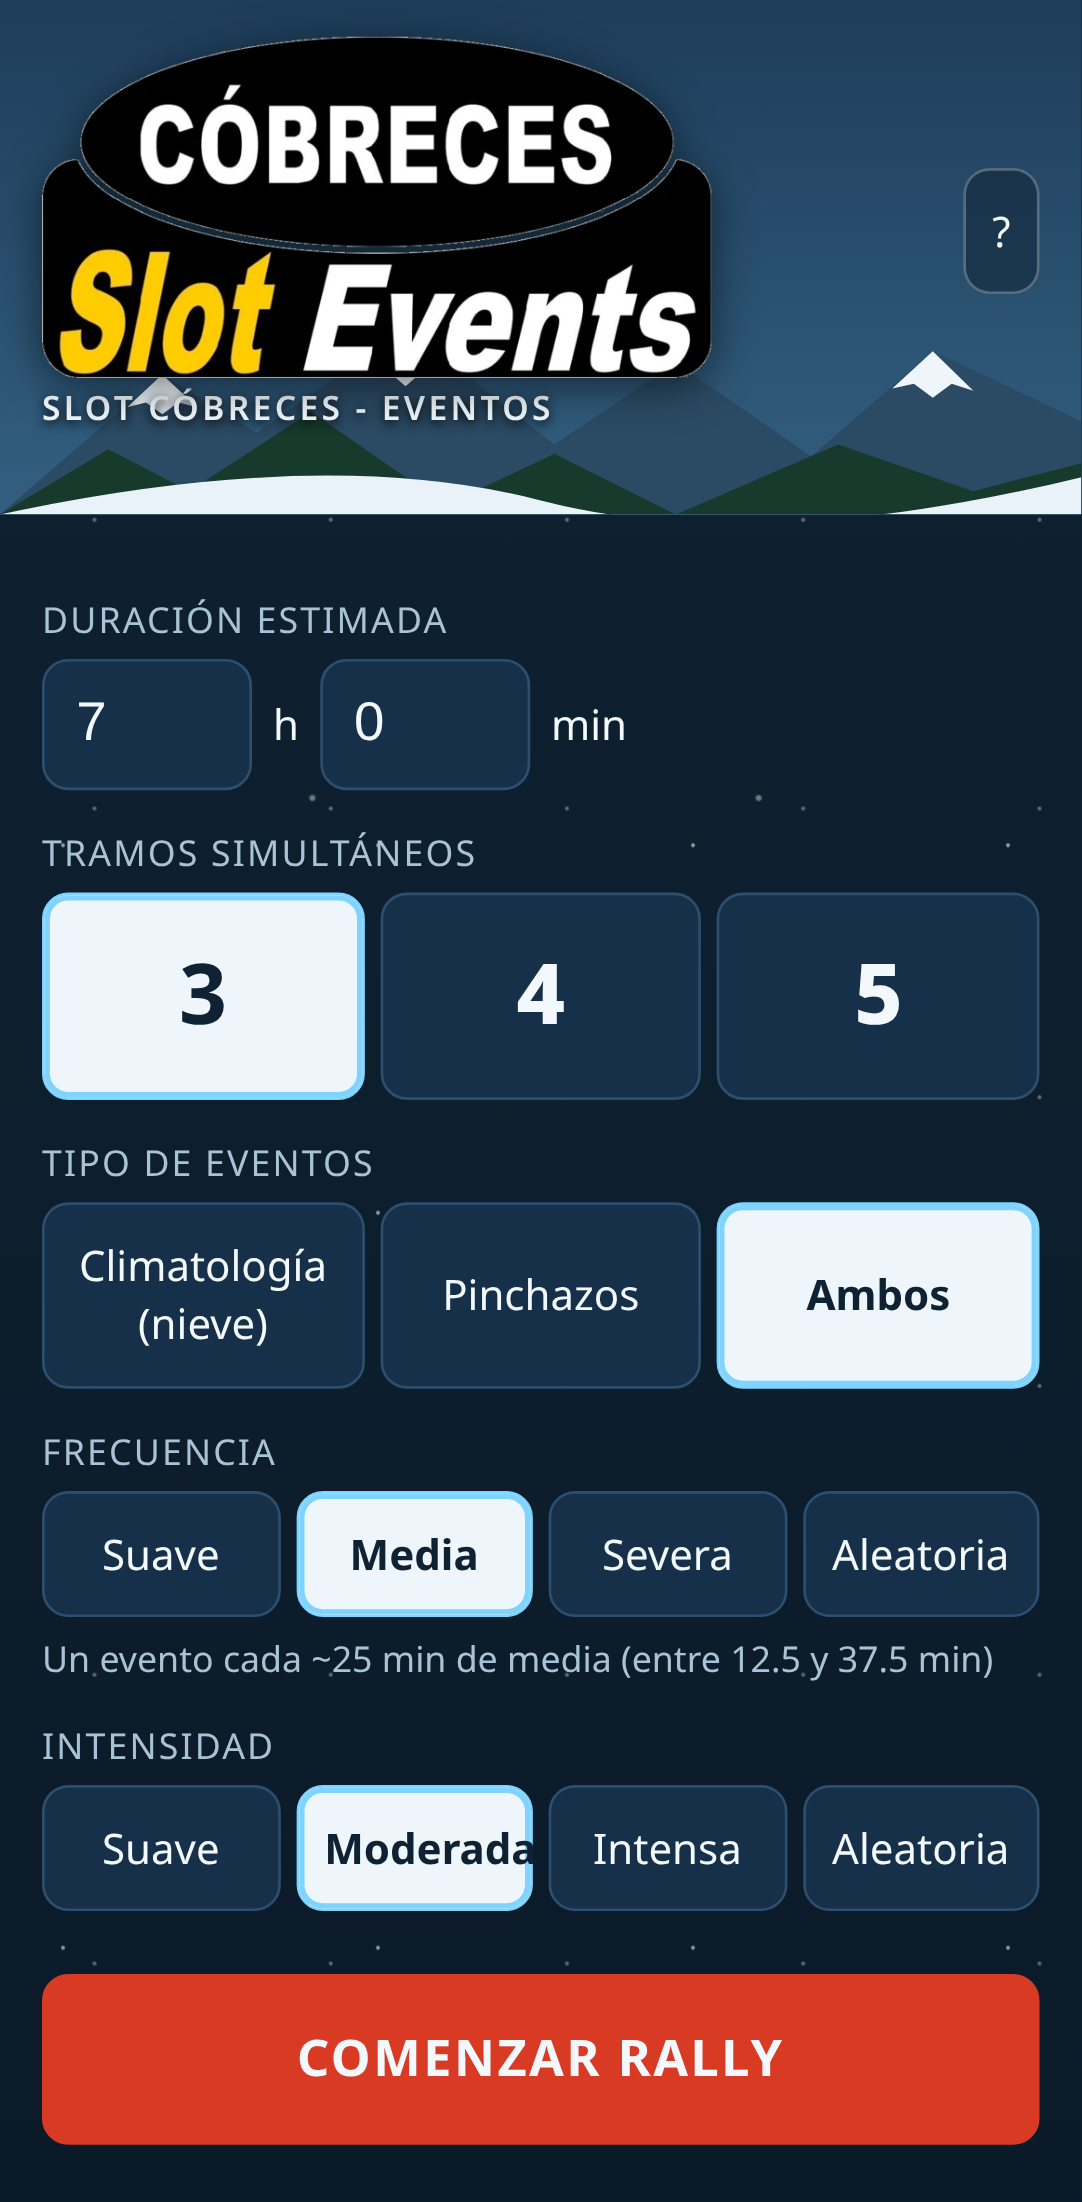
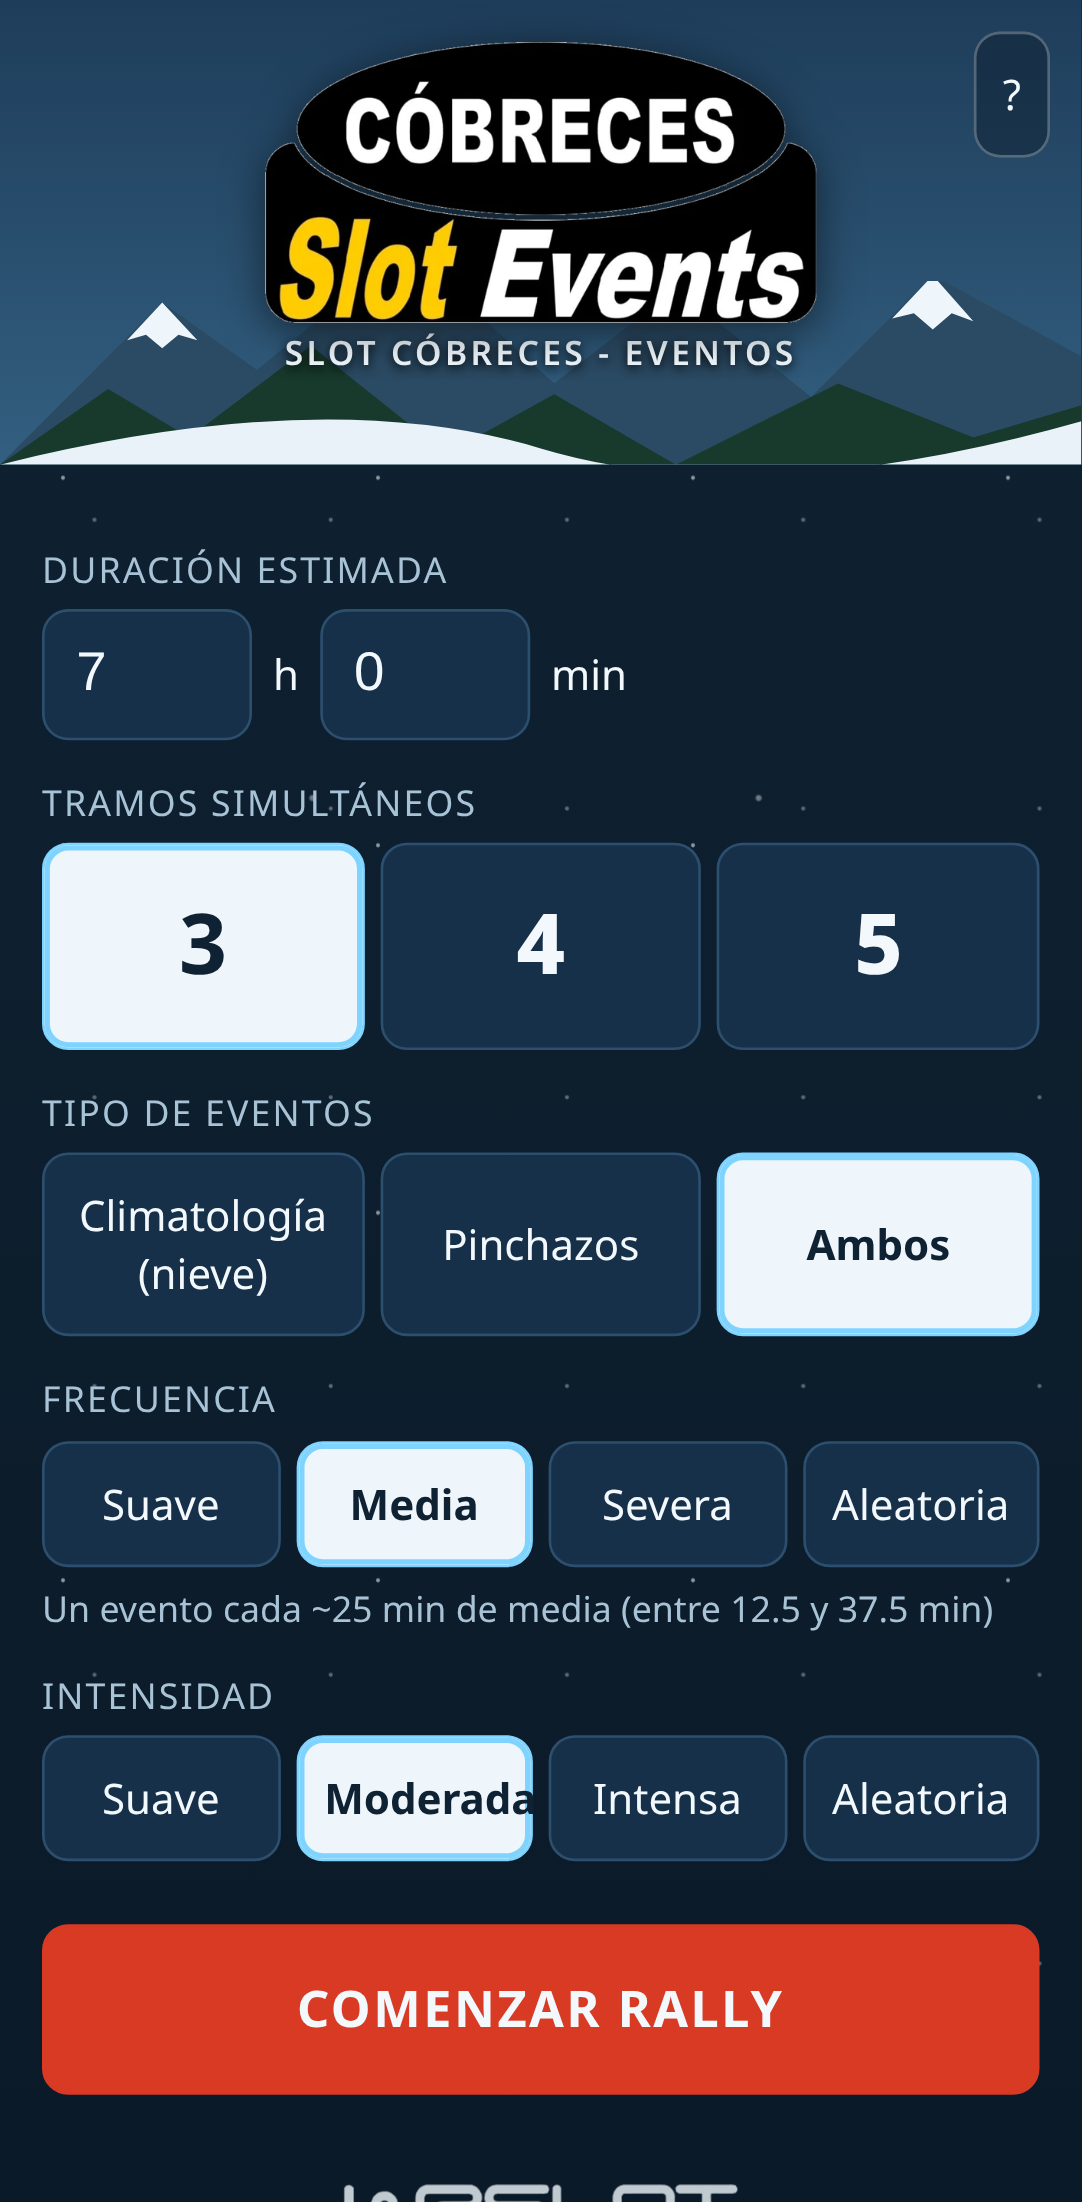
Deploy v7

diff --git a/sw.js b/sw.js
@@ -1,12 +1,22 @@
-const CACHE = 'eventos-v6';
+const CACHE = 'eventos-v7';
 const ASSETS = ['./','index.html','style.css','app.js','manifest.webmanifest','icons/icon-192.png','icons/icon-512.png','assets/logo-cobreces.webp','assets/logo-wrslot.webp'];
-self.addEventListener('install', e => { e.waitUntil(caches.open(CACHE).then(c => c.addAll(ASSETS))); self.skipWaiting(); });
-self.addEventListener('activate', e => { e.waitUntil(caches.keys().then(ks => Promise.all(ks.filter(k => k !== CACHE).map(k => caches.delete(k)))).then(() => self.clients.claim())); });
+// Instala saltando la caché HTTP para no guardar archivos antiguos.
+self.addEventListener('install', e => {
+  self.skipWaiting();
+  e.waitUntil(caches.open(CACHE).then(c => c.addAll(ASSETS.map(u => new Request(u, { cache: 'reload' })))));
+});
+self.addEventListener('activate', e => {
+  e.waitUntil(caches.keys().then(ks => Promise.all(ks.filter(k => k !== CACHE).map(k => caches.delete(k)))).then(() => self.clients.claim()));
+});
+// Red primero (siempre la versión publicada); caché solo sin conexión.
 self.addEventListener('fetch', e => {
-  if (e.request.method !== 'GET') return;
-  e.respondWith(caches.match(e.request, {ignoreSearch: true}).then(r => r || fetch(e.request)));
+  if (e.request.method !== 'GET' || new URL(e.request.url).origin !== location.origin) return;
+  e.respondWith(fetch(e.request, { cache: 'no-cache' }).then(r => {
+    if (r.ok) { const c = r.clone(); caches.open(CACHE).then(k => k.put(e.request, c)); }
+    return r;
+  }).catch(() => caches.match(e.request, { ignoreSearch: true }).then(r => r || (e.request.mode === 'navigate' ? caches.match('./') : undefined))));
 });
 self.addEventListener('notificationclick', e => {
   e.notification.close();
-  e.waitUntil(self.clients.matchAll({type: 'window'}).then(cs => cs.length ? cs[0].focus() : self.clients.openWindow('./')));
+  e.waitUntil(self.clients.matchAll({ type: 'window' }).then(cs => cs.length ? cs[0].focus() : self.clients.openWindow('./')));
 });

diff --git a/index.html b/index.html
@@ -8,11 +8,11 @@
 <link rel="manifest" href="manifest.webmanifest">
 <link rel="icon" href="icons/icon-192.png">
 <link rel="apple-touch-icon" href="icons/icon-192.png">
-<link rel="stylesheet" href="style.css">
+<link rel="stylesheet" href="style.css?v=7">
 </head>
 <body>
 <header>
-  <svg class="mtn" viewBox="0 0 400 90" preserveAspectRatio="none" aria-hidden="true">
+  <svg class="mtn" viewBox="0 0 400 90" preserveAspectRatio="xMidYMax slice" width="520" height="70" aria-hidden="true">
     <path d="M0 90L60 30 95 55 150 10 205 60 250 25 300 65 345 20 400 50V90z" fill="#2b4a63"/>
     <path d="M150 10l-18 20 10-3 8 8 8-8 10 4zM345 20l-15 16 8-2 7 6 7-6 8 3zM60 30l-13 14 7-2 6 5 6-5 7 2z" fill="#eef6fb"/>
     <path d="M0 90l40-28 30 18 45-34 50 40 40-22 45 26 60-30 50 20 40-12V90z" fill="#183a2c"/>
@@ -78,6 +78,6 @@
   <p class="note">⚠ Con el móvil bloqueado durante mucho tiempo, el navegador puede suspender la app y las alertas pueden no llegar a tiempo. Esto requiere un servidor de notificaciones push, que llegará en una versión futura.</p>
   <form method="dialog"><button class="primary">Entendido</button></form>
 </dialog>
-<script src="app.js"></script>
+<script src="app.js?v=7"></script>
 </body>
 </html>

diff --git a/style.css b/style.css
@@ -59,3 +59,16 @@ body[data-screen=race] .logo{width:min(36vw,150px)}
 h1 .name{font-size:.8rem;letter-spacing:.1em;text-transform:uppercase;color:var(--snow);text-shadow:0 1px 4px #000}
 footer{text-align:center;padding:18px 16px 28px;opacity:.8}
 .wrslot{width:150px;height:auto}
+/* Columna centrada (escritorio) */
+html{background:#0b1a28}
+body{max-width:520px;margin:0 auto;box-shadow:0 0 60px #0008;background-color:#0f2233}
+@media (min-width:600px){
+  html{background:radial-gradient(1.5px 1.5px at 15% 20%,#fff7 50%,#0000),radial-gradient(1px 1px at 60% 70%,#fff5 50%,#0000),linear-gradient(#1e3d5a 0%,#0f2233 55%,#183a2c 100%) fixed;background-size:140px 160px,110px 130px,auto}
+  body{border-left:1px solid #ffffff14;border-right:1px solid #ffffff14}
+}
+header{justify-content:center;padding:16px 56px 36px}
+header h1{align-items:center;text-align:center}
+#helpBtn{position:absolute;top:12px;right:12px}
+.logo{width:min(70%,300px)}
+body[data-screen=race] .logo{width:min(40%,170px)}
+.mtn{height:70px}

diff --git a/app.js b/app.js
@@ -177,7 +177,12 @@ function init() {
   S = load();
   tick();
   setInterval(tick, 1000);
-  if ('serviceWorker' in navigator) navigator.serviceWorker.register('sw.js');
+  if ('serviceWorker' in navigator) {
+    // Al activarse un SW nuevo (skipWaiting + clients.claim) recargamos una vez para usar los archivos nuevos.
+    const hadController = !!navigator.serviceWorker.controller; let reloaded = false;
+    navigator.serviceWorker.addEventListener('controllerchange', () => { if (hadController && !reloaded) { reloaded = true; location.reload(); } });
+    navigator.serviceWorker.register('sw.js', { updateViaCache: 'none' }).then(r => r.update()).catch(() => {});
+  }
 }
 window.Eventos = { FREQ, RANDOM_RANGE, nextInterval, makeEvent, get state() { return S; }, raceElapsed, catchUp, pause, resume };
 init();

diff --git a/dshots.js b/dshots.js
@@ -1,0 +1,12 @@
+const { chromium } = require('@playwright/test');
+(async () => {
+  const [url, tag] = process.argv.slice(2);
+  const b = await chromium.launch();
+  for (const [w, h] of [[1280, 800], [1920, 1080]]) {
+    const p = await (await b.newContext({ viewport: { width: w, height: h } })).newPage();
+    await p.goto(url + '?v=' + Date.now()); await p.waitForTimeout(1500);
+    await p.screenshot({ path: `screenshots/desktop-${tag}-${w}x${h}.png` });
+    console.log(w, await p.evaluate(() => ({ sw: document.documentElement.scrollWidth, hdr: document.querySelector('header').getBoundingClientRect().height, mtn: document.querySelector('.mtn').getBoundingClientRect().width, logo: document.querySelector('.logo').getBoundingClientRect().width })));
+  }
+  await b.close();
+})();
